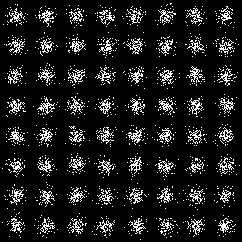
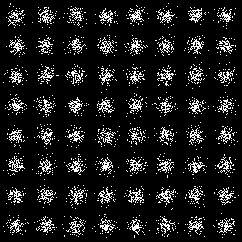
c

diff --git a/Demo2/model.py b/Demo2/model.py
@@ -13,13 +13,12 @@ import torchvision.datasets as dset
 import torchvision.transforms as transforms
 import torchvision.utils as vutils
 
-from spectual_normalization import SpectralNorm
-
 def normal_init(m, mean, std):
     """ 初始化权重 """
     if isinstance(m, nn.Linear):
         m.weight.data.normal_(mean, std)
         m.bias.data.zero_()
+
 
 class Attention(nn.Module):
     """ conv1d 实现 """
@@ -30,12 +29,14 @@ class Attention(nn.Module):
         #self.out_channels = out_channels
         self.generate = generate #是否加入残差
         self.g = nn.Conv1d(in_channels, self.out_channels, kernel_size=1, stride=1, padding=0) #U
+        
         self.theta = nn.Conv1d(in_channels, self.out_channels, kernel_size=1, stride=1, padding=0)
         nn.init.normal_(self.theta.weight, 0, 0.02)
         self.phi = nn.Conv1d(in_channels, self.out_channels, kernel_size=1, stride=1, padding=0)
         nn.init.normal_(self.phi.weight, 0, 0.02)        
-        self.W = nn.Sequential(nn.Conv1d(self.out_channels, in_channels, kernel_size=1, stride=1, padding=0),\
-                           nn.BatchNorm1d(in_channels))
+        self.W = nn.Sequential(nn.Conv1d(self.out_channels, in_channels, kernel_size=1, stride=1, padding=0),
+                                 nn.BatchNorm1d(in_channels))
+
         nn.init.normal_(self.W[1].weight, 0, 0.02)
         nn.init.constant_(self.W[1].bias, 0)
         if sub_sample: #是否需要下采样
@@ -45,13 +46,12 @@ class Attention(nn.Module):
     def forward(self, x): 
         batch_size = x.size(0) #批次大小
         g_x = self.g(x).view(batch_size, self.out_channels, -1) 
-
         g_x = g_x.permute(0, 2, 1)
 
         theta_x = self.theta(x).view(batch_size, self.out_channels, -1)  
         theta_x = theta_x.permute(0, 2, 1)
         phi_x = self.phi(x).view(batch_size, self.out_channels, -1)
-        f = torch.matmul(theta_x, phi_x) 
+        f = torch.matmul(theta_x, phi_x) #计算H 
  
         N = f.size(-1)
         f_div_c =  f / N
@@ -74,23 +74,26 @@ class Generator(nn.Module):
         self.feature_size = geo_num + cls_num
 
         #Encoder
-        self.activatation = nn.LeakyReLU(0.2)
-        self.encoder_fc1 = nn.Linear(self.feature_size, self.feature_size*2)
-        self.encoder_bn1 = nn.BatchNorm1d(num_elements)  
-        self.encoder_fc2 = nn.Linear(self.feature_size*2, self.feature_size*2*2)
-        self.encoder_bn2 = nn.BatchNorm1d(num_elements)
-        self.encoder_fc3 = nn.Linear(self.feature_size*2*2, self.feature_size*2*2)
+        self.activatation = nn.LeakyReLU(0.1)
+        #self.activatation = nn.Tanh()
+        self.encoder_fc1 = nn.Linear(self.feature_size, 64)
+        #self.encoder_bn1 = nn.BatchNorm1d(num_elements)  
+        self.encoder_fc2 = nn.Linear(64, 128)
+        #self.encoder_bn2 = nn.BatchNorm1d(num_elements)
+        self.encoder_fc3 = nn.Linear(128, 1024)
 
         #stacked relation 
-        self.attention_1 = Attention(self.feature_size*2*2, generate=False)
-        self.attention_2 = Attention(self.feature_size*2*2, generate=False)
-        self.attention_3 = Attention(self.feature_size*2*2, generate=False)
-        self.attention_4 = Attention(self.feature_size*2*2, generate=False)
+        self.attention_1 = Attention(1024, generate=False)
+        self.attention_2 = Attention(1024, generate=False)
+        self.attention_3 = Attention(1024, generate=False)
+        self.attention_4 = Attention(1024, generate=False)
 
         #Decoder
-        self.decoder_fc4 = nn.Linear(self.feature_size*2*2, self.feature_size*2)
+        self.decoder_fc4 = nn.Linear(1024, 128)
         self.decoder_bn4 = nn.BatchNorm1d(num_elements)
-        self.decoder_fc5 = nn.Linear(self.feature_size*2, self.feature_size)
+        self.decoder_fc5 = nn.Linear(128, 64)
+        self.decoder_bn5 = nn.BatchNorm1d(num_elements)
+        self.decoder_fc8 = nn.Linear(64,self.feature_size)
 
         #branch
         self.fc6 = nn.Linear(self.feature_size, cls_num)
@@ -101,8 +104,10 @@ class Generator(nn.Module):
             normal_init(self._modules[m], mean, std)
 
     def forward(self, x):
-        x = self.activatation(self.encoder_bn1(self.encoder_fc1(x)))
-        x = self.activatation(self.encoder_bn2(self.encoder_fc2(x)))
+        #x = self.activatation(self.encoder_bn1(self.encoder_fc1(x)))
+        #x = self.activatation(self.encoder_bn2(self.encoder_fc2(x)))
+        x = self.activatation(self.encoder_fc1(x))
+        x = self.activatation(self.encoder_fc2(x))
         x = self.activatation(self.encoder_fc3(x))
 
         x = x.permute(0, 2, 1).contiguous()
@@ -115,7 +120,8 @@ class Generator(nn.Module):
         x = x.permute(0, 2, 1).contiguous() #维度变换后，使用该函数，方可view对维度进行变形
 
         out = self.activatation(self.decoder_bn4(self.decoder_fc4(x)))
-        out = self.activatation(self.decoder_fc5(out))
+        out = self.activatation(self.decoder_bn5(self.decoder_fc5(out)))
+        out = self.activatation(self.decoder_fc8(out))
 
         cls = torch.sigmoid(self.fc6(out))
         #cls = torch.nn.LeakyReLU(self.fc6(out))
@@ -216,22 +222,23 @@ class RelationDiscriminator(nn.Module):
         self.feature_size = geo_num + cls_num
 
         # Encode
-        self.activatation = nn.LeakyReLU(0.2)
-        self.encoder_fc1 = nn.Linear(self.feature_size, self.feature_size*2)
+        self.activatation = nn.LeakyReLU(0.1)
+        self.encoder_fc1 = nn.Linear(self.feature_size, 64)
         self.encoder_bn1 = nn.BatchNorm1d(num_elements)  
-        self.encoder_fc2 = nn.Linear(self.feature_size*2, self.feature_size*2*2)
-        # self.encoder_bn2 = nn.BatchNorm1d(num_elements)
-        # self.encoder_fc3 = nn.Linear(self.feature_size*2*2, self.feature_size*2*2)
+        self.encoder_fc2 = nn.Linear(64, 128)
+        self.encoder_bn2 = nn.BatchNorm1d(num_elements)
+        self.encoder_fc3 = nn.Linear(128, 1024)
 
         # relation
-        self.attention= Attention(self.feature_size*2*2, generate=False)
+        self.attention= Attention(1024, generate=False)
         
-        #max-pooling 用于进行全局 这里提取全局特征是不是对的？
+        #max-pooling 用于进行全局
         self.g = nn.MaxPool1d(kernel_size=num_elements)
 
         # Decode
-        self.decoder_fc4 = nn.Linear(self.feature_size*2*2, self.feature_size*2)
-        self.decoder_fc5 = nn.Linear(self.feature_size*2, 1)
+        self.decoder_fc4 = nn.Linear(1024, 512)
+        self.decoder_fc5 = nn.Linear(512,256)
+        self.decoder_fc6 = nn.Linear(256,1)
         
     def weight_init(self, mean, std):
         for m in self._modules:
@@ -239,73 +246,16 @@ class RelationDiscriminator(nn.Module):
 
     def forward(self, x_in):
         
-        #进行特征嵌入
         x = self.activatation(self.encoder_bn1(self.encoder_fc1(x_in)))
-       # x = self.activatation(self.encoder_bn2(self.encoder_fc2(x)))
-        x = self.activatation(self.encoder_fc2(x))
+        x = self.activatation(self.encoder_bn2(self.encoder_fc2(x)))
+        x = self.activatation(self.encoder_fc3(x))
 
-        #提取全局几何关系
         x = x.permute(0,2,1)
         x = self.attention(x)
 
-        #提取全局特征
         x = self.g(x).permute(0, 2, 1)
-
-        #MLP分类器
         x = self.activatation(self.decoder_fc4(x))
-        x = self.decoder_fc5(x)
-        x = torch.sigmoid(x)
-        return x
-
-class RelationDiscriminator_SN(nn.Module):
-    """ relation_based """
-    def __init__(self, batch_size, geo_num, cls_num, num_elements):
-        super(RelationDiscriminator, self).__init__()
-
-        self.device = torch.device('cuda' if torch.cuda.is_available() else 'cpu')
-        self.batch_size = batch_size
-        self.geo_num = geo_num
-        self.cls_num = cls_num
-        self.feature_size = geo_num + cls_num
-
-        # Encode
-        self.activatation = nn.LeakyReLU(0.2)
-        self.encoder_fc1 = SpectralNorm(nn.Linear(self.feature_size, self.feature_size*2))
-        self.encoder_bn1 = nn.BatchNorm1d(num_elements)  
-        self.encoder_fc2 = SpectralNorm(nn.Linear(self.feature_size*2, self.feature_size*2*2))
-        # self.encoder_bn2 = nn.BatchNorm1d(num_elements)
-        # self.encoder_fc3 = nn.Linear(self.feature_size*2*2, self.feature_size*2*2)
-
-        # relation
-        self.attention= SpectralNorm(Attention(self.feature_size*2*2, generate=False))
-        
-        #max-pooling 用于进行全局 这里提取全局特征是不是对的？
-        self.g = SpectralNorm(nn.MaxPool1d(kernel_size=num_elements))
-
-        # Decode
-        self.decoder_fc4 = SpectralNorm(nn.Linear(self.feature_size*2*2, self.feature_size*2))
-        self.decoder_fc5 = SpectralNorm(nn.Linear(self.feature_size*2, 1))
-        
-    def weight_init(self, mean, std):
-        for m in self._modules:
-            normal_init(self._modules[m], mean, std)
-
-    def forward(self, x_in):
-        
-        #进行特征嵌入
-        x = self.activatation(self.encoder_bn1(self.encoder_fc1(x_in)))
-       # x = self.activatation(self.encoder_bn2(self.encoder_fc2(x)))
-        x = self.activatation(self.encoder_fc2(x))
-
-        #提取全局几何关系
-        x = x.permute(0,2,1)
-        x = self.attention(x)
-
-        #提取全局特征
-        x = self.g(x).permute(0, 2, 1)
-
-        #MLP分类器
-        x = self.activatation(self.decoder_fc4(x))
-        x = self.decoder_fc5(x)
+        x = self.activatation(self.decoder_fc5(x))
+        x = self.activatation(self.decoder_fc6(x))
         x = torch.sigmoid(x)
         return x

diff --git a/Demo2/main.py b/Demo2/main.py
@@ -18,7 +18,8 @@ import model
 def real_loss(D_out, device):
     #计算real图像损失
     batch_size = D_out.size(0)
-    labels = torch.ones(batch_size).to(device)
+    #labels = torch.ones(batch_size).to(device)
+    labels = torch.full([batch_size],0.9).to(device)
     #crit =nn.BCEWithLogitsLoss()
     crit = nn.BCELoss()
     assert (D_out.data.cpu().numpy().all() >= 0. and D_out.data.cpu().numpy().all() <= 1.)
@@ -75,10 +76,10 @@ def main():
     geo_num = 2
     batch_size = 64
     lr = 0.0002
-    num_epochs = 100
+    num_epochs = 200
 
     #优化器参数
-    beta1 = 0.55
+    beta1 = 0.5
     beta2 = 0.999
     
     #设置随机数种子
@@ -110,7 +111,7 @@ def main():
     print("Initialize optimizers")
     g_optimizer = optim.Adam(gen.parameters(), lr, (beta1, beta2))
     #g_optimizer = optim.SGD(gen.parameters(), lr)
-    d_optimizer = optim.Adam(dis.parameters(), lr/10, (beta1, beta2))
+    d_optimizer = optim.Adam(dis.parameters(), lr, (beta1, beta2))
     #d_optimizer = optim.SGD(dis.parameters(), lr/10)
     
     # 设置为训练模式
@@ -135,7 +136,7 @@ def main():
     print('start train!!!')
     start_time = time.time()
     for epoch in range(num_epochs):
-        scheduler = optim.lr_scheduler.StepLR(d_optimizer, step_size=10, gamma=0.1)
+        #scheduler = optim.lr_scheduler.StepLR(d_optimizer, step_size=2, gamma=0.1)
         D_losses, G_losses = [], []
         epoch_start_time = time.time()
         for batch_idx, real_images in enumerate(train_loader, 1):
@@ -172,27 +173,37 @@ def main():
             d_optimizer.step()
             D_losses.append(d_loss.item()) #一个epoch中的损失
 
-
-            """ 训练生成器 """
-            g_optimizer.zero_grad()
+            if batch_idx % 2 ==0:
+                """ 训练生成器 """
+                g_optimizer.zero_grad()
             # 随机初始化
             #z_cls = torch.FloatTensor(batch_size, element_num, cls_num).uniform_(0, 1)
-            z_cls = torch.FloatTensor(torch.ones(batch_size, element_num, cls_num))
-            z_geo = torch.FloatTensor(batch_size, element_num, geo_num).normal_(0.5, 0.15)
-            z = torch.cat((z_cls, z_geo), 2).to(device)
+                z_cls = torch.FloatTensor(torch.ones(batch_size, element_num, cls_num))
+                z_geo = torch.FloatTensor(batch_size, element_num, geo_num).normal_(0.5, 0.15)
+                z = torch.cat((z_cls, z_geo), 2).to(device)
 
-            fake_images_g = gen(z) #生成fake图像
-            D_out = dis(fake_images_g) #判断fake图像
+                fake_images_g = gen(z) #生成fake图像
+                D_out = dis(fake_images_g) #判断fake图像
 
-            g_loss = real_loss(D_out, device) 
-            g_loss.backward()
-            g_optimizer.step()
-            G_losses.append(g_loss.item())#一个epoch中的损失
+                g_loss = real_loss(D_out, device) 
+                g_loss.backward()
+                g_optimizer.step()
+                G_losses.append(g_loss.item())#一个epoch中的损失
 
         epoch_end_time = time.time()
         per_epoch_time = epoch_end_time - epoch_start_time
         print("[{}/{}] --time: {:.2f}, d_loss: {:.6f}, g_loss: {:.6f}".format(epoch+1, \
                                                                             num_epochs, per_epoch_time, d_loss, g_loss))
+        #保存模型
+        m_path = 'pam'
+        if not os.path.isdir(m_path):
+            os.mkdir(m_path)
+        path_dis = m_path + '/dis_{}.pth'.format(epoch+1)
+        path_gen = m_path + '/gen_{}.pth'.format(epoch+1)
+
+        torch.save(dis.state_dict(), path_dis)
+        torch.save(gen.state_dict(), path_gen)
+
         #测试部分
         result_path = 'result_image'
         if not os.path.isdir(result_path):

diff --git a/Demo2/dataset.py b/Demo2/dataset.py
@@ -1,7 +1,7 @@
 """ 预处理数据集 """
 import os 
 
-import cv2
+#import cv2
 import numpy as np
 import torch
 import torch.utils.data as data
